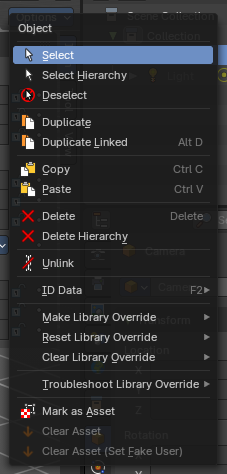
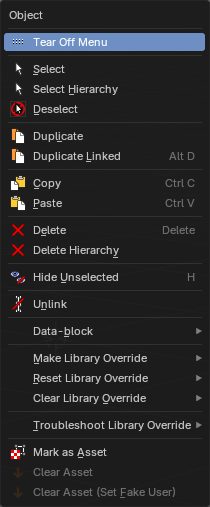
Outliner: Hide Unselected in the View and Object menus #1739
Bforartists #6997 exposed Hide Unselected (View Layer mode only).
Documents it in both menus, refreshes both menu captures (Tear Off
Menu entry, Data-block submenu) and renames ID Data to Data-block.

diff --git a/docs2/content/editors/outliner.md b/docs2/content/editors/outliner.md
@@ -131,6 +131,12 @@ Deselect all items in the list.
 
 Inverts the selection. Unselected list items becomes selected, selected list items becomes unselected.
 
+#### Hide Unselected
+
+Hides every object and collection that is **not selected**, so only your selection stays visible in the viewport. Use it to focus on a few objects in a busy scene without changing the scene itself.
+
+It only shows in the **View Layer** display mode. To bring everything back, use **Unhide** (Alt H), see Hotkey only functionality below.
+
 #### Manage Unused Data
 
 ![Manage Unused Data](/docs2/images/editors/outliner/manage-unused-data.png)
@@ -488,6 +494,10 @@ Deletes the selected object. Child objects gets unparented.
 
 Deletes the selected object and all its child objects.
 
+#### Hide Unselected
+
+Hides all objects and collections that are not selected. It is the same entry as **Hide Unselected** in the View menu, and it only shows in the View Layer display mode.
+
 #### Unlink
 
 Deletes the selected object.
@@ -548,9 +558,9 @@ Removes the collection from the asset library.
 
 Removes the collection from the asset library. But marks it as fake user so that it remains in the scene.
 
-#### ID Data
+#### Data-block
 
-![ID Data](/docs2/images/editors/outliner/id-data-4.png)
+![Data-block submenu](/docs2/images/editors/outliner/id-data-4.png)
 
 Data related operations. Note that the tool tips are currently missing here.
 
